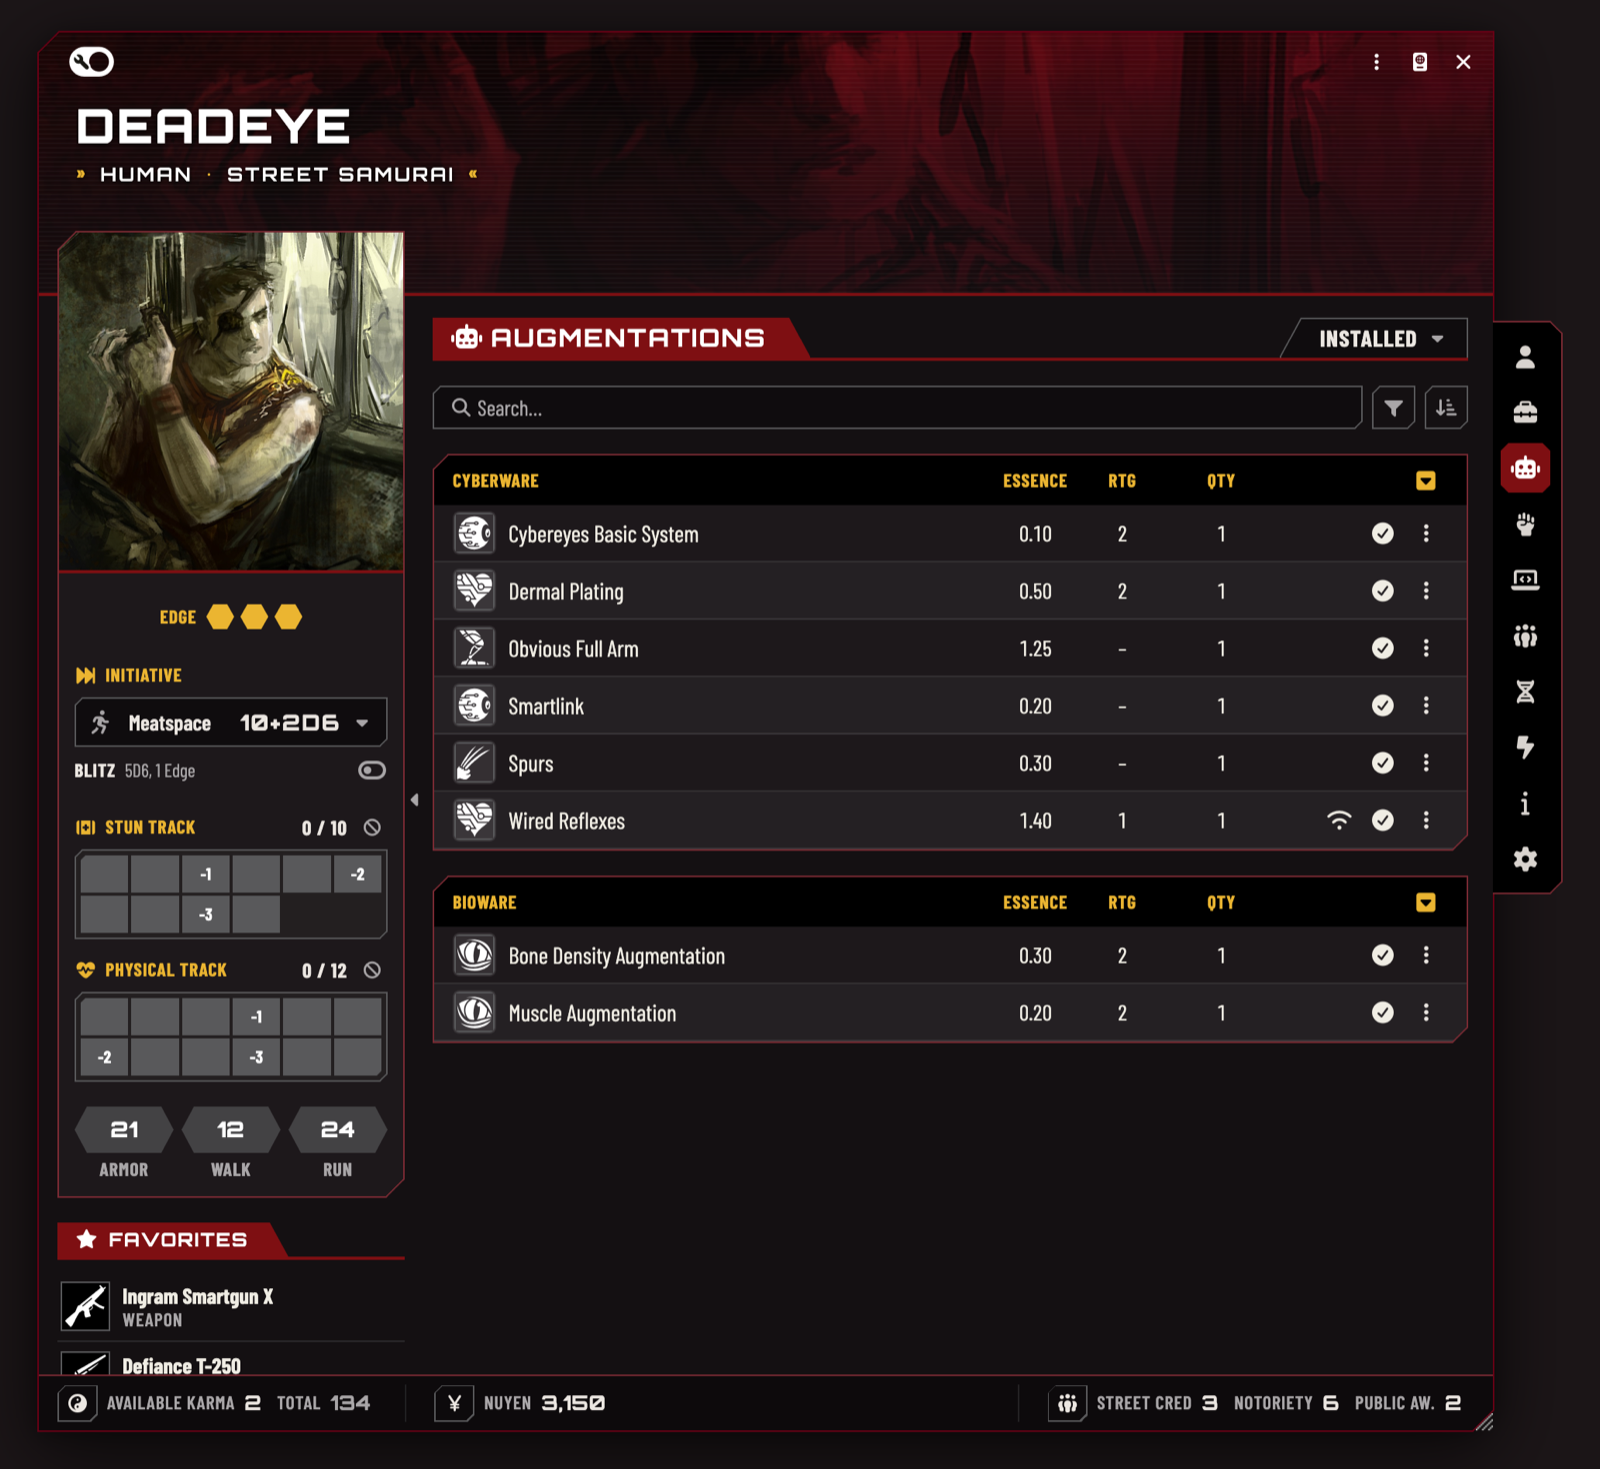
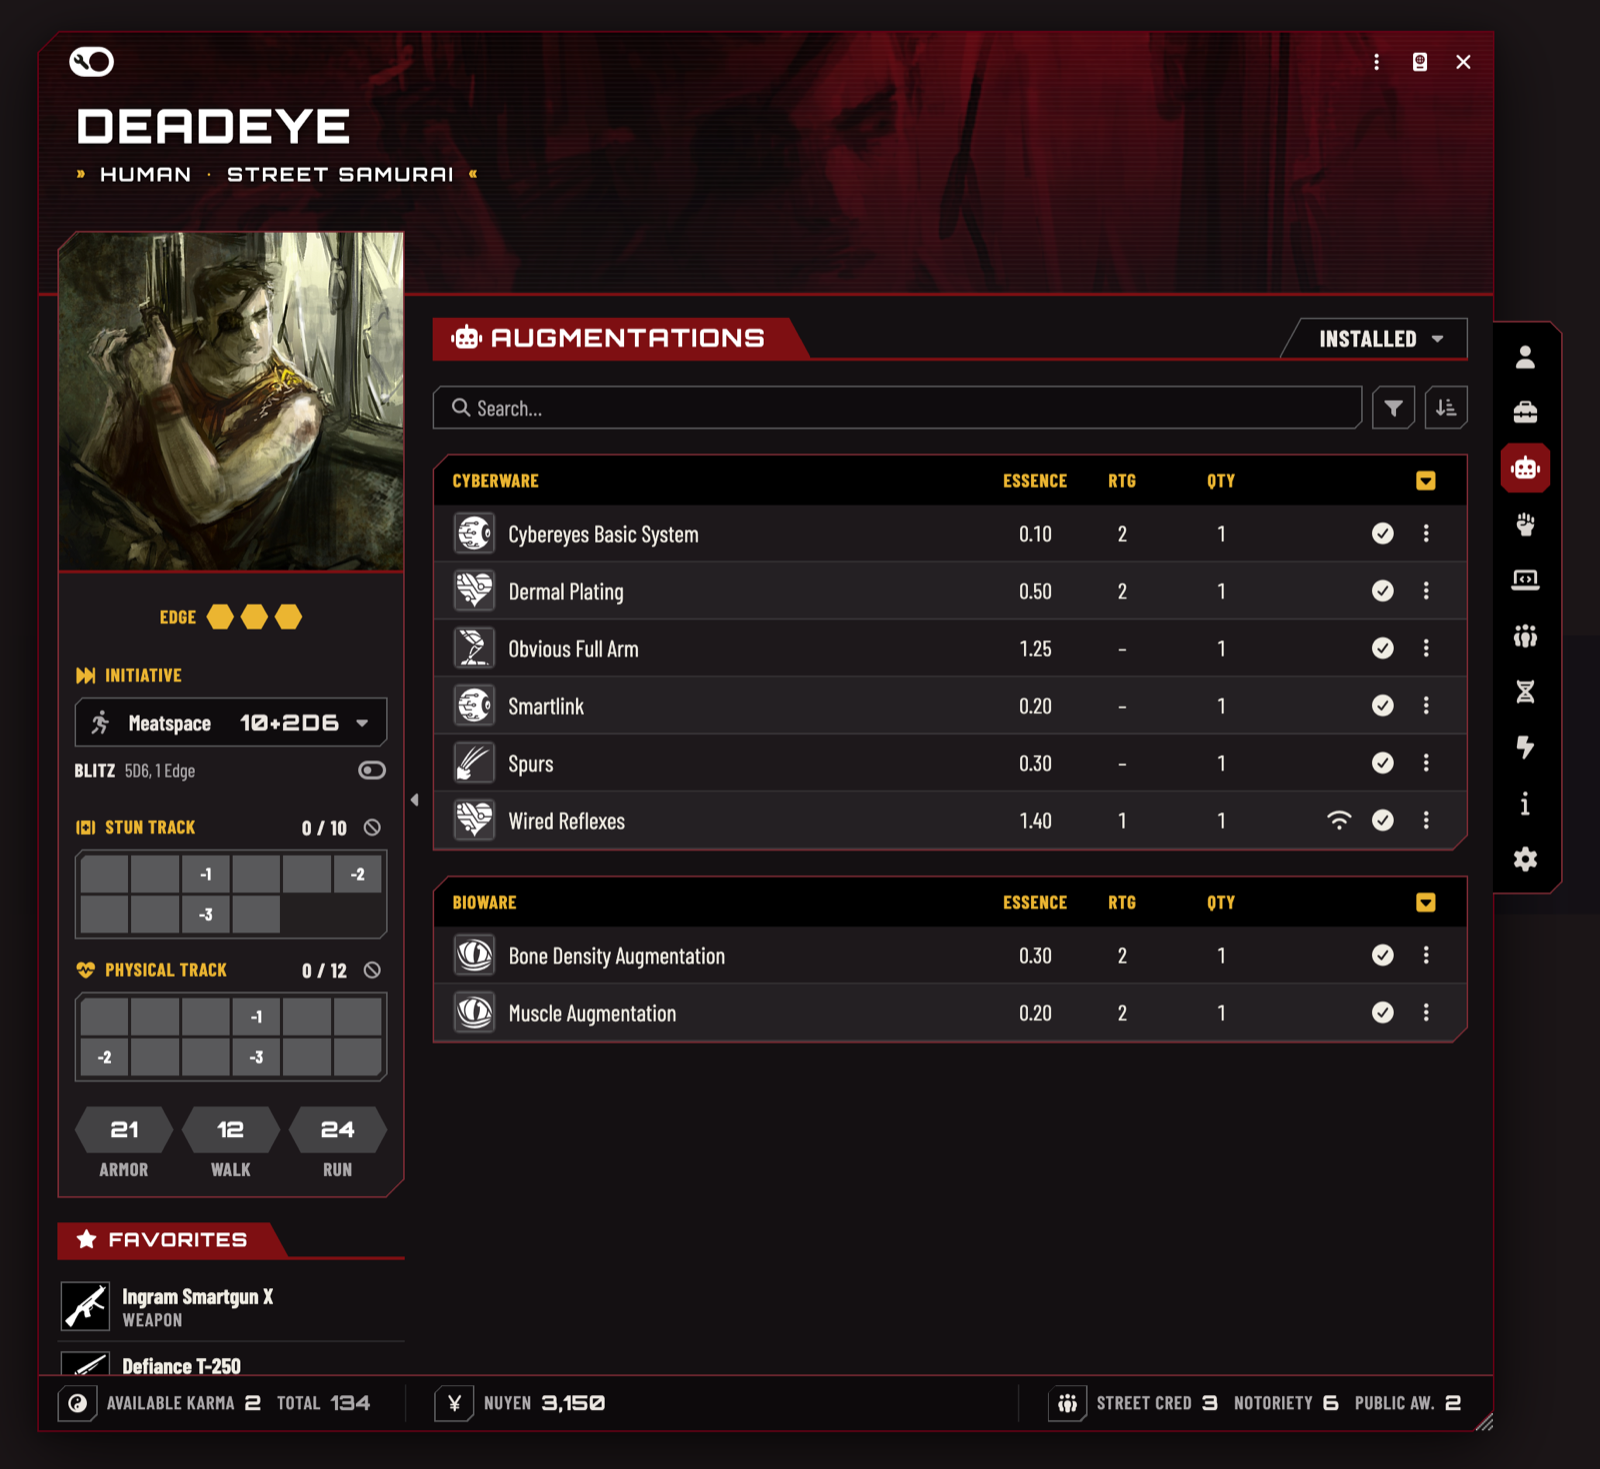
SR5 Redesign: README and screenshots

diff --git a/README.md b/README.md
@@ -1,76 +1,97 @@
-# SR5 Redesign
+# SR5 Redesign: Foundry VTT module for the Shadowrun 5e system
+
+[![Latest release](https://img.shields.io/github/v/release/Vorfale/sr5-redesign?label=release&style=for-the-badge&color=2ea043)](https://github.com/Vorfale/sr5-redesign/releases/latest)
+[![Downloads](https://img.shields.io/github/downloads/Vorfale/sr5-redesign/total?label=downloads&style=for-the-badge&color=2b82fc)](https://github.com/Vorfale/sr5-redesign/releases)
+[![Foundry VTT](https://img.shields.io/badge/dynamic/json?url=https%3A%2F%2Fgithub.com%2FVorfale%2Fsr5-redesign%2Freleases%2Flatest%2Fdownload%2Fmodule.json&query=%24.compatibility.verified&label=Foundry&prefix=v&style=for-the-badge&color=f86f22)](https://foundryvtt.com)
+[![Shadowrun 5e system](https://img.shields.io/badge/dynamic/json?url=https%3A%2F%2Fgithub.com%2FVorfale%2Fsr5-redesign%2Freleases%2Flatest%2Fdownload%2Fmodule.json&query=%24.relationships.systems%5B0%5D.compatibility.verified&label=Shadowrun%205e&style=for-the-badge&color=c4161c)](https://github.com/SR5-FoundryVTT/SR5-FoundryVTT)
+[![Discord](https://img.shields.io/badge/Discord-join-5865f2?style=for-the-badge&logo=discord&logoColor=white)](https://discord.gg/qfudBfuPG3)
+
+A redesign of the whole interface of the [Shadowrun 5e system](https://github.com/SR5-FoundryVTT/SR5-FoundryVTT) for
+[Foundry VTT](https://foundryvtt.com): sheets, windows and the way you work with them.
+
+> Requires the Shadowrun 5e system. An unofficial fan module: it leaves the system and your data untouched, and
+> turning it off brings back the system's own sheets.
 
 ![A street samurai's character sheet: attributes and limits, the combat sidebar, skills with their pools](media/character-skills.png)
 
-An unofficial redesign of the **Shadowrun 5e** system's sheets for Foundry VTT v14. It adds new sheets and leaves the
-system and its data alone; the system's own sheets stay available. Turn the module off and characters go back to the
-system's sheet.
+## What it does
 
-Today it covers the **character sheet** and the **vehicle and drone sheet**, with the windows they open (karma, nuyen and
-reputation managers, the network manager). The goal for 1.0 is the whole interface: matrix actors, spirits, critters and
-NPCs, items, roll dialogs and chat cards.
+SR5 Redesign tries to make the system's sheets more comfortable to play with:
 
-## What it is for
+- the mechanics and buttons you use most sit **where you can see them**: initiative, condition monitors, armor and the
+  quick rolls with their dice pools, together in one sidebar;
+- **tables are easier to read**, and skills show their dice pool next to the rating;
+- lists get **filters and sorting**, which the system's sheet doesn't have;
+- the sheet **looks and feels like the rulebooks**, in a dark and a light theme;
+- **hints** where they were missing, like the modifier breakdown behind a number and a link to the rulebook page;
+- some content is **split by meaning**, like augmentations apart from the inventory;
+- what you usually miss when playing a character is on the sheet, like their **vehicles and drones**;
+- some **pop-ups are reworked**: the karma, nuyen and reputation managers, the network manager.
 
-**A sheet that looks like the books.** The colours were measured from the SR5 rulebooks: dark pages with gold accents,
-and a light theme as well. Headings, plates and tables take their cues from the books, set in free fonts picked to stand
-in for the books' typefaces (Orbitron, Barlow Condensed, Marcellus). Cyrillic text keeps the look through free
-look-alike fonts.
+The first goal is a better overall experience: quality-of-life improvements all over the sheet, and a sheet that feels
+like Shadowrun.
 
-**Less clicking at the table.**
-- Combat in one sidebar: initiative and Blitz, condition monitors with wound modifiers and overflow damage, armor,
-  movement and quick rolls (Defense, Soak, Composure, Judge Intentions, Memory, Lift/Carry, Drain or Fading), each with
-  its dice pool shown.
-- Skills show their pools. Play mode lists trained skills; search and filters (attribute, skill group, trained or
-  untrained) find the rest.
-- Inventory, augmentations, actions and magic have search, filters and sorting; every table header sorts its column,
-  remembered per user.
-- Hover cards for items, skills, attributes, limits, armor and movement, with the modifier breakdown where a value has
-  modifiers and a link to the rulebook page.
-- Favorites: drop an item on the favorites, drag to reorder.
-- A ⋮ menu in every row; sheets open at the size you last gave one.
+**On the way to 1.0:**
 
-**Something to look at.** The character's art as a banner in the sheet header, moved and zoomed to frame it. The
-vehicle and drone sheet shares the look, with a portrait or the token picture.
+- [x] character sheet
+- [x] vehicle and drone sheet
+- [ ] matrix actors, spirits, critters and NPCs
+- [ ] items
+- [ ] roll dialogs and chat cards
 
-**Quick to use.** An update redraws only what changed: a damage box, Edge, karma or an item toggle costs about a third
-of a full render. Hidden tabs are drawn when the browser is idle or when you open them, and the first sheet after a page
-load opens faster.
+<details>
+<summary>Everything on the sheet, in detail</summary>
 
-**Easier to read.** A per-user **Readable text** setting makes the condensed type a weight heavier and slightly wider. On
-smaller screens the sheet keeps its margins and the attribute plates stay readable down to Foundry's minimum window
-size.
+- Header: name, metatype and archetype, limits, and the character's art as a banner, moved and zoomed to frame it.
+- Attribute plates with modifier cards; Edge and Essence.
+- Sidebar: initiative modes and Blitz, condition monitors with wound modifiers and overflow damage as a third monitor,
+  armor and movement, quick rolls (Defense, Soak, Composure, Judge Intentions, Memory, Lift/Carry, Drain or Fading)
+  with their pools, favorites, running silent and the PAN; collapsible.
+- Skills with pools; the text filter plus filter menus (trained or untrained, attribute, skill group); play mode lists
+  trained skills.
+- Inventory, augmentations, actions and magic: search, filter menus and a sort button; every table header sorts its
+  column, remembered per user.
+- Hover cards for items, skills, attributes, limits, armor and movement.
+- Expanded rows: an item's properties in one line with icons, its rulebook source, the Matrix condition monitor.
+- Favorites in the sidebar: drop any item on them, drag to reorder. A ⋮ menu button in every row.
+- Matrix: the device as a card with its attributes swapped on it, actions grouped by limit, network, marked and owned
+  icons.
+- An update redraws only what changed; hidden tabs are drawn when the browser is idle. Sheets reopen at the size you
+  last gave them.
+- A per-user Readable text setting; Latin and Cyrillic text.
 
-More pictures: [inventory with a hover card](media/character-inventory-card.png),
-[augmentations](media/character-augmentations.png), [light theme](media/character-light.png). The characters are test
-characters; their pictures are concept art by David Revoy for the Blender Foundation's open movie Tears of Steel
-(see Credits).
+</details>
 
-## In detail
+## Get involved
 
-- Header: name, metatype and archetype, limits, sheet art.
-- Attribute plates with modifier cards; Edge and Essence (whole numbers without decimals).
-- Sidebar: initiative modes and Blitz, condition monitors with wound modifiers, armor and movement, quick rolls
-  (Defense, Soak, Composure, Judge Intentions, Memory, Lift/Carry, Drain or Fading) with their pools, favorites,
-  running silent and the PAN; collapsible.
-- Skills with pools; search and a filter menu (trained / untrained, attribute, skill group). Play mode lists trained
-  skills, edit mode all of them.
-- Inventory, augmentations, actions and magic: search, filter menus (magic: by damage element too) and a sort button
-  (sheet order, name A–Z, Z–A); every table header sorts its column, remembered per user. Rich hover cards for items,
-  skills, attributes, limits, armor and movement, with a link to the rulebook page.
-- Expanded rows: an item's properties in one line with icons, its rulebook source at the top right, the Matrix
-  condition monitor on a line of its own. A ⋮ menu button in every row.
-- Favorites: drop an item row (or any item) on the favorites to add it; drag to reorder.
-- Overflow damage as a third condition monitor under the physical track.
-- Matrix: device card with swappable attributes, actions grouped by limit, network / marked / owned icons.
-- Footer: karma, nuyen, street cred, notoriety, public awareness.
-- Dark and light themes (the sheet's own theme in Configure Sheet, or Foundry's).
-- Latin and Cyrillic text: the sheet fonts have no Cyrillic, so free look-alikes fill in for Cyrillic letters only.
+[![Discord](https://img.shields.io/badge/Discord-join-5865f2?style=for-the-badge&logo=discord&logoColor=white)](https://discord.gg/qfudBfuPG3)
+
+Questions, ideas and table stories are welcome on [Discord](https://discord.gg/qfudBfuPG3). Found a bug? Open an
+[issue](https://github.com/Vorfale/sr5-redesign/issues) with the Foundry, system and module versions, what you did and
+what you saw; a screenshot and the browser console (F12) help a lot.
+
+## Screenshots
+
+<table>
+<tr>
+<th>Inventory and hover card</th>
+<th>Augmentations</th>
+</tr>
+<tr>
+<td><a href="media/character-inventory-card.png"><img src="media/character-inventory-card.png" width="380" alt="Inventory tab: weapons, ammo and armor tables with a hover card for a shotgun"></a></td>
+<td><a href="media/character-augmentations.png"><img src="media/character-augmentations.png" width="380" alt="Augmentations tab: cyberware and bioware with their Essence cost"></a></td>
+</tr>
+<tr>
+<th colspan="2">Light theme</th>
+</tr>
+<tr>
+<td colspan="2"><a href="media/character-light.png"><img src="media/character-light.png" width="780" alt="A rigger's sheet in the light theme, skills tab"></a></td>
+</tr>
+</table>
 
 ## Install
 
-Foundry modules live on the server, so install it on the machine that **hosts** the game. Players who connect get it
-automatically.
+Install it on the machine that **hosts** the game; players who connect get it automatically.
 
 1. In Foundry VTT: **Add-on Modules → Install Module**, paste this into **Manifest URL** and press **Install**:
 
@@ -78,50 +99,40 @@ automatically.
    https://github.com/Vorfale/sr5-redesign/releases/latest/download/module.json
    ```
 
-2. Open the world, **Game Settings → Manage Modules**, enable **SR5 Redesign**, save (the world reloads).
-3. Characters open in **SR5 Redesign (experimental)** from then on. A character that was set to a particular sheet
-   keeps it: header menu **Sheet** (Configure Sheet) → choose SR5 Redesign.
+2. Open the world, **Game Settings → Manage Modules**, enable **SR5 Redesign**.
+3. Characters open in **SR5 Redesign (experimental)**. A character set to a particular sheet keeps it: header menu
+   **Sheet** → SR5 Redesign.
 
-To remove: disable the module; characters go back to the system's sheet.
+<details>
+<summary>Update, remove, install by hand</summary>
 
-Updating: **Add-on Modules → Check for Updates** in Foundry. Then reload the browser with the cache bypassed
-(Ctrl+F5 / Cmd+Shift+R) so the new stylesheet and fonts are fetched.
+- **Update:** **Add-on Modules → Check for Updates**, then reload the browser with the cache bypassed (Ctrl+F5 /
+  Cmd+Shift+R).
+- **Remove:** disable the module; characters go back to the system's sheet.
+- **By hand:** download `module.zip` from [Releases](https://github.com/Vorfale/sr5-redesign/releases) and unzip it
+  into `Data/modules/sr5-redesign/`.
 
-Without the manifest: download `module.zip` from [Releases](https://github.com/Vorfale/sr5-redesign/releases) and unzip
-it into `{Foundry user data}/Data/modules/sr5-redesign/`, so that you get `Data/modules/sr5-redesign/module.json`.
-
-UI skins such as Carolingian UI restyle every heading, tooltip, window header and context menu from their own
-stylesheet; the sheet, its tooltips and the windows it opens keep their own type and layout against that (0.3.1).
+</details>
 
 ## Compatibility
 
-- Foundry VTT v14 (checked with 14.369).
-- Shadowrun 5e system 0.37 (checked with 0.37.8). The module carries the parts of the system code it needs, built from
-  that release. Other 0.37 releases are allowed but not checked. A newer system version prints a warning in the browser
-  console (F12) and may need a new version of the module.
+| | Required | Checked with |
+|---|---|---|
+| Foundry VTT | v14 | 14.369 |
+| Shadowrun 5e system | 0.37 | 0.37.8 |
 
-## Credits and licenses
+A newer system version may need a new version of the module. UI skins such as Carolingian UI can be used alongside.
 
-- Sheet logic builds on the Shadowrun 5e system for Foundry VTT, GPL-3.0 — https://github.com/SR5-FoundryVTT/SR5-FoundryVTT,
-  and the script contains parts of it. This module is GPL-3.0 as well (see LICENSE).
-- Fonts, all under the SIL Open Font License 1.1: Orbitron, Barlow Condensed, Marcellus, and the Cyrillic look-alikes
-  Days One, Sofia Sans Condensed, Forum. The files are the original releases from the Google Fonts repository, packed
-  into WOFF2 without any change; `fonts/README.md` lists authors, sources and checksums, and each font's `OFL.txt` is
-  next to it.
-- Bundled code from npm: Fuse.js (Apache-2.0); its copyright and license are in `THIRD-PARTY-NOTICES.md`.
-- Icons: Font Awesome Free, from Foundry's own copy. Row pictures come from the installed system (some by Bella
-  Carvalho, CC BY-SA 4.0, as the system's README credits them).
-- Screenshots (`media/`, not part of the module): the portraits and header art are concept art by David Revoy /
-  Blender Foundation for Tears of Steel, CC BY 3.0 (https://creativecommons.org/licenses/by/3.0/): "Celia - killer bots,
-  streets" and "Genghis Jones - pod active" (https://commons.wikimedia.org/wiki/Category:Concept_art_by_David_Revoy_for_Tears_of_Steel),
-  cropped and resized, and tinted by the sheet's header.
-- Colours were measured from the SR5 rulebooks. No Catalyst Game Labs or Topps art or logos are included.
+## Credits and license
 
-## License
+Built on the [Shadowrun 5e system for Foundry VTT](https://github.com/SR5-FoundryVTT/SR5-FoundryVTT). Fonts under the
+SIL Open Font License, icons from Font Awesome Free, Fuse.js under Apache-2.0. Screenshots: concept art by David Revoy /
+Blender Foundation for Tears of Steel, [CC BY 3.0](https://creativecommons.org/licenses/by/3.0/)
+([source](https://commons.wikimedia.org/wiki/Category:Concept_art_by_David_Revoy_for_Tears_of_Steel)), cropped and
+tinted by the sheet. Details in the [fonts notice](fork/public/fonts/README.md) and in `THIRD-PARTY-NOTICES.md` inside `module.zip`.
 
-SR5 Redesign, copyright (C) 2026 Ravefale, is free software under the GNU General Public License version 3 (`LICENSE`),
-without any warranty. It contains code from the Shadowrun 5e system for Foundry VTT, copyright its authors, also
-GPL-3.0, changed for this module. Source code: https://github.com/Vorfale/sr5-redesign.
+SR5 Redesign, copyright (C) 2026 Ravefale, is free software under the [GNU General Public License version 3](LICENSE),
+without any warranty; it contains code from the Shadowrun 5e system, changed for this module.
 
 Shadowrun is a registered trademark and/or trademark of The Topps Company, Inc. This is an unofficial fan work, not
 affiliated with or endorsed by The Topps Company, Catalyst Game Labs or Foundry Gaming.
